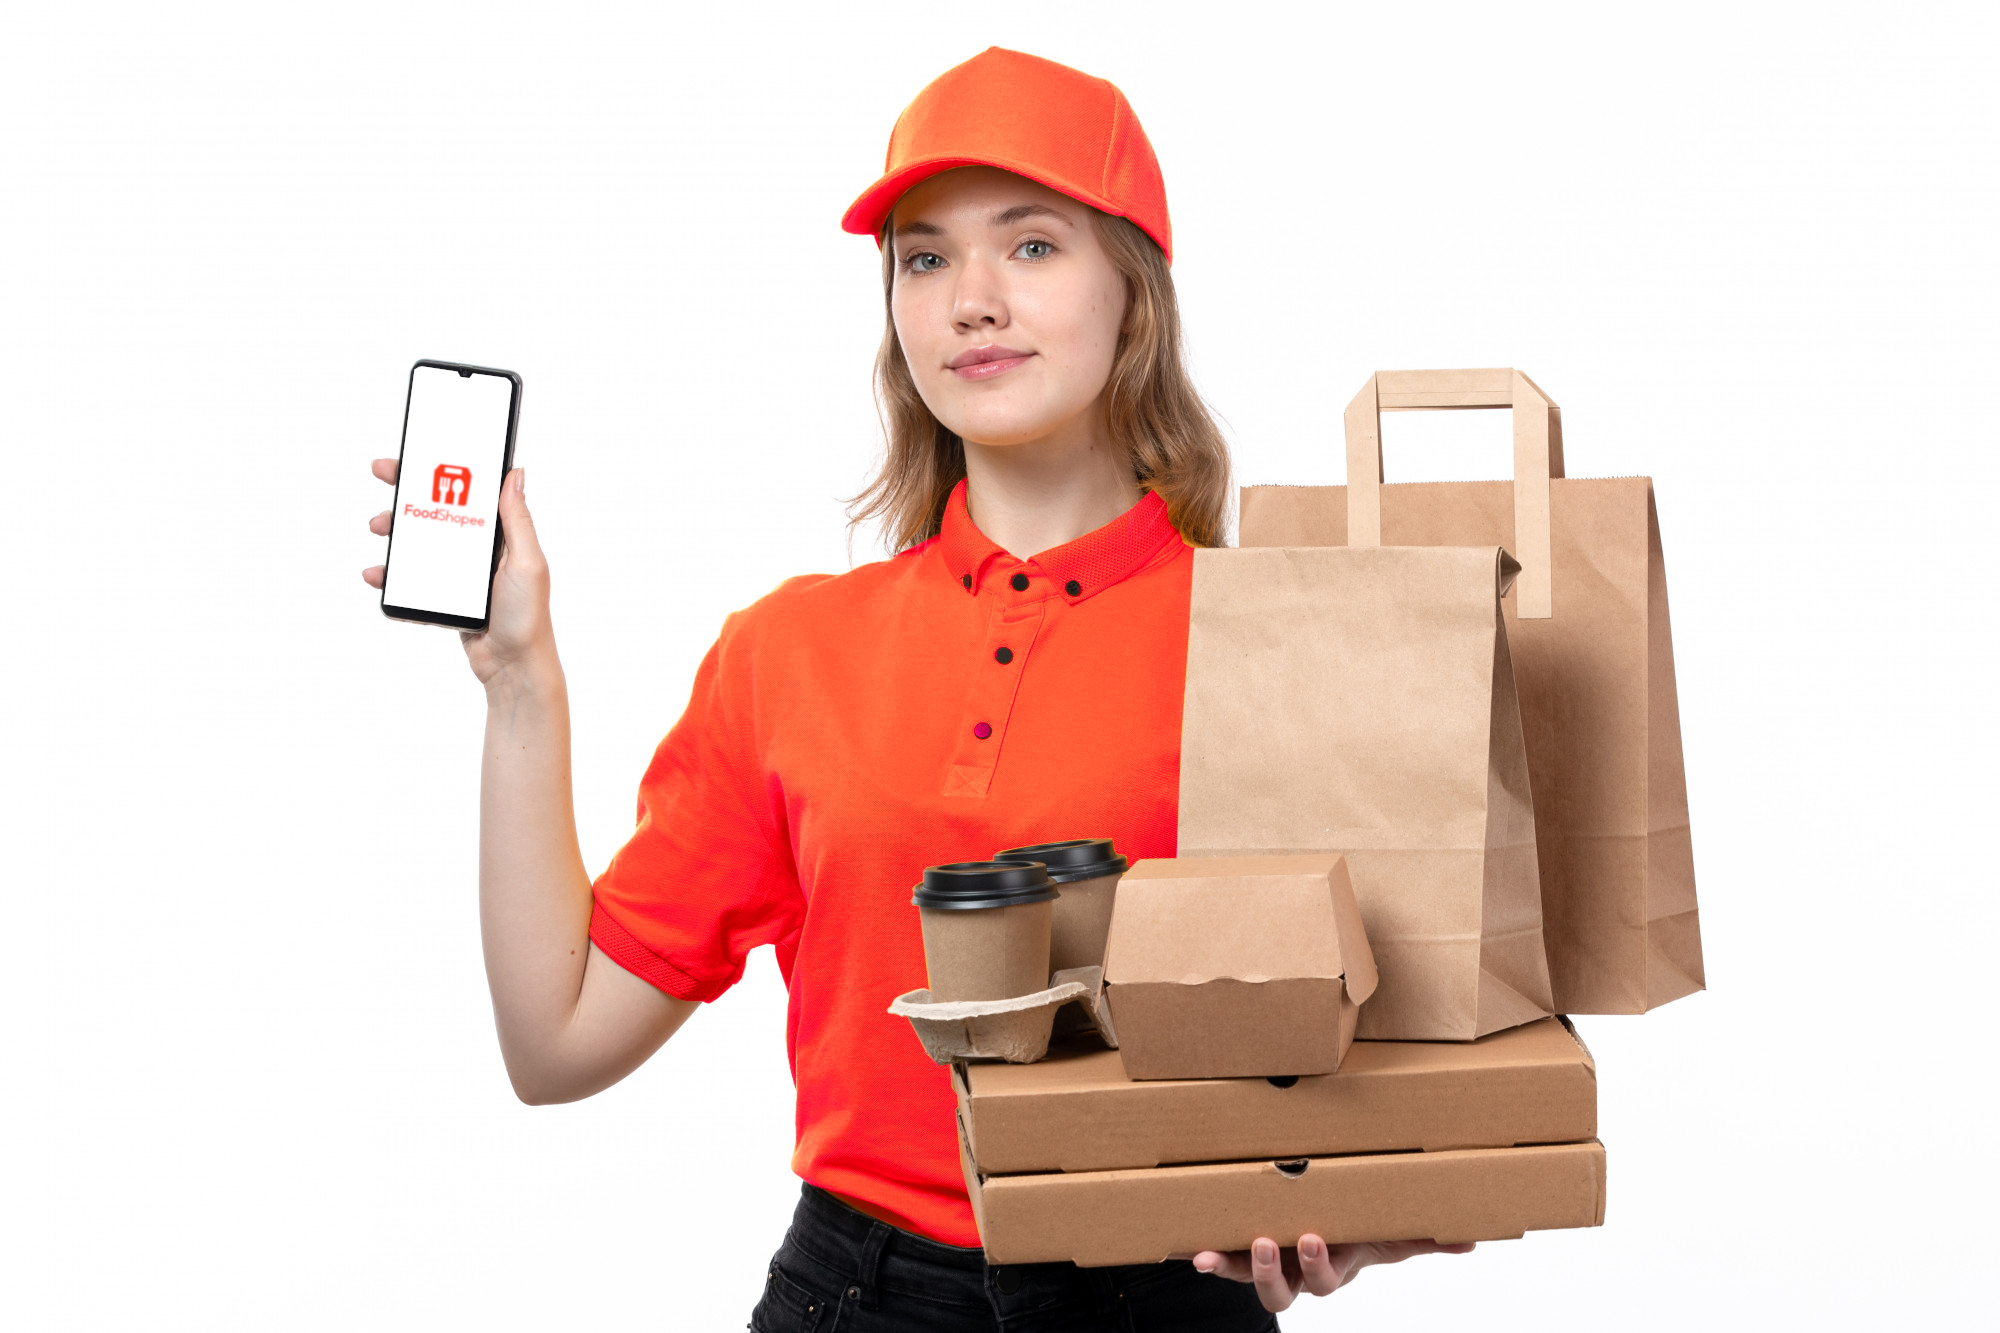
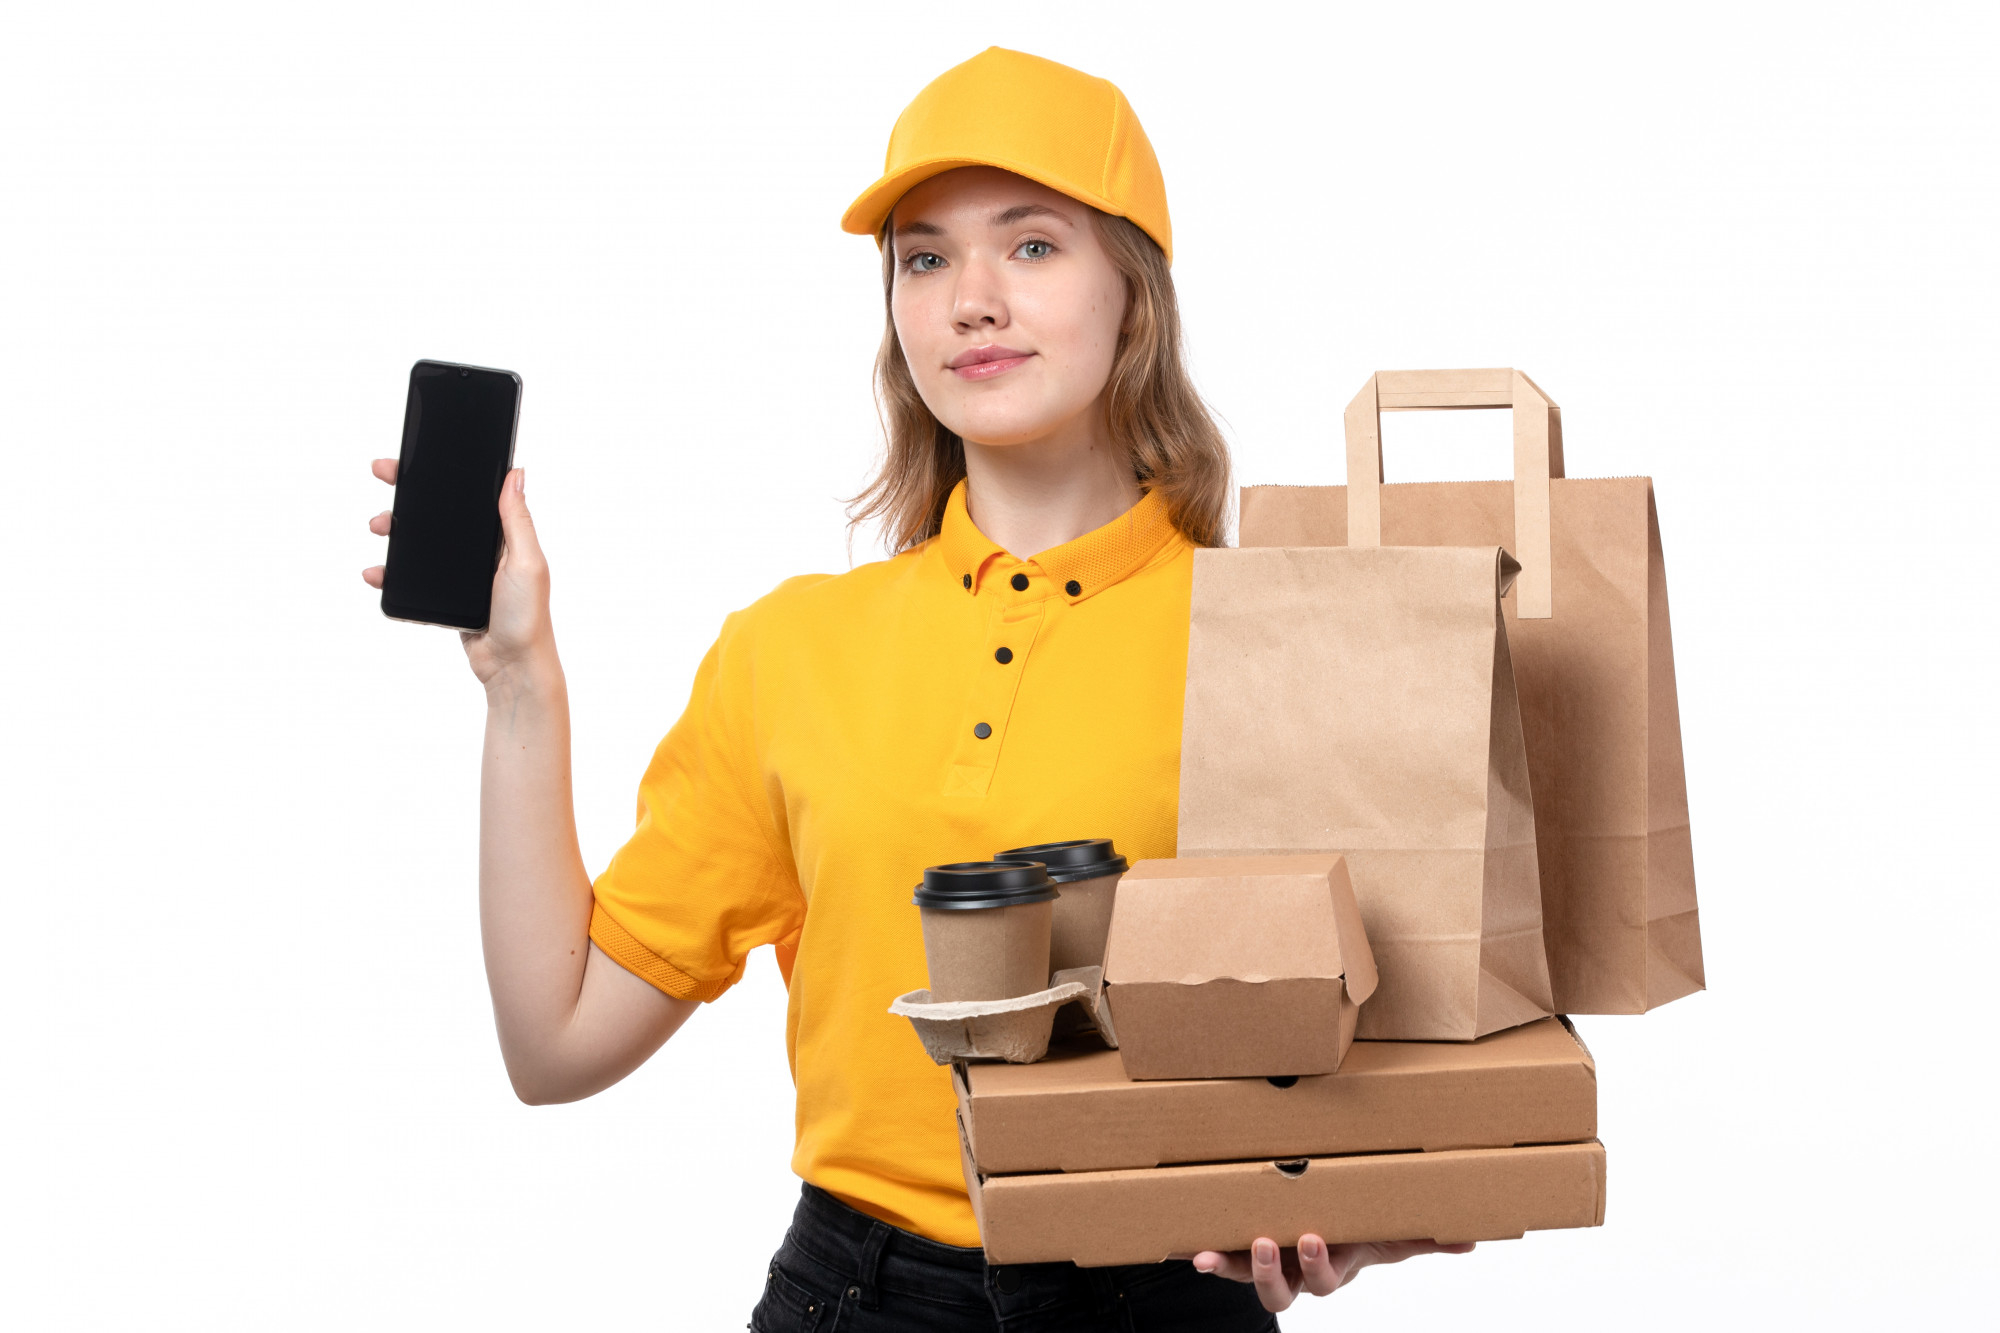
removendo o shopee dos nomes

Changed region(s): [[0.279, 0.3691, 0.62, 0.9535], [0.403, 0.0308, 0.589, 0.1845], [0.186, 0.2768, 0.279, 0.4614]]

diff --git a/Core/templates/about.html b/Core/templates/about.html
@@ -22,30 +22,30 @@
             <div class="container">
                 <div class="row justify-content-center">
                     <div class="col-md-8">
-                        <h1 class="display-4 text-center name_footer">A FoodShopee é um plataforma de Delivery Brasileira</h1>
+                        <h1 class="display-4 text-center name_footer">A Food é um plataforma de Delivery Brasileira</h1>
                         <article class="article" data-aos="fade-up"
                         data-aos-duration="1000"
                         data-aos-offset="0"
                         data-aos-delay="200">
-                            <p>A Foodshopee é uma plataforma inovadora de delivery, especialmente desenvolvida para logistas que desejam expandir seus negócios e alcançar um público mais amplo. Nossa plataforma oferece aos logistas a oportunidade de cadastrar e anunciar seus produtos de forma fácil e eficiente, permitindo que eles alcancem clientes em potencial que buscam uma experiencia no digital de compra.
+                            <p>A Food é uma plataforma inovadora de delivery, especialmente desenvolvida para logistas que desejam expandir seus negócios e alcançar um público mais amplo. Nossa plataforma oferece aos logistas a oportunidade de cadastrar e anunciar seus produtos de forma fácil e eficiente, permitindo que eles alcancem clientes em potencial que buscam uma experiencia no digital de compra.
                               <br>
                               <br>
-                              Através da Foodshopee, os logistas têm a oportunidade de criar um perfil personalizado, onde podem listar seus produtos com descrições detalhadas e imagens atraentes. Eles desfrutam de total controle sobre os produtos, categorias, bairros para entrega, cupons de desconto, preços e outras informações relevantes.
+                              Através da Food, os logistas têm a oportunidade de criar um perfil personalizado, onde podem listar seus produtos com descrições detalhadas e imagens atraentes. Eles desfrutam de total controle sobre os produtos, categorias, bairros para entrega, cupons de desconto, preços e outras informações relevantes.
                               <br>
                               <br>
-                              Nossa plataforma foi cuidadosamente projetada para simplificar o processo de venda online, fornecendo uma experiência intuitiva tanto para os logistas quanto para os clientes. Ao utilizar a Foodshopee, os logistas podem expandir sua presença no mercado digital, alcançando um público mais amplo e, consequentemente, aumentando suas vendas.
+                              Nossa plataforma foi cuidadosamente projetada para simplificar o processo de venda online, fornecendo uma experiência intuitiva tanto para os logistas quanto para os clientes. Ao utilizar a Food, os logistas podem expandir sua presença no mercado digital, alcançando um público mais amplo e, consequentemente, aumentando suas vendas.
                               <br>
                               <br>
-                              Os clientes que acessam a Foodshopee têm acesso a uma ampla seleção de lojas e produtos em um único lugar. Eles podem explorar diferentes categorias, pesquisar por produtos específicos e descobrir novidades. Os clientes podem entrar em contato diretamente com os logistas para fazer suas compras e combinar as opções de pagamento e retirada dos produtos.
+                              Os clientes que acessam a Food têm acesso a uma ampla seleção de lojas e produtos em um único lugar. Eles podem explorar diferentes categorias, pesquisar por produtos específicos e descobrir novidades. Os clientes podem entrar em contato diretamente com os logistas para fazer suas compras e combinar as opções de pagamento e retirada dos produtos.
                               <br>
                               <br>
-                              Acreditamos que a tecnologia desempenha um papel fundamental na evolução do comércio e, por isso, nossa plataforma oferece recursos avançados para facilitar a gestão do negócio e otimizar a experiência do cliente. Com a Foodshopee, os logistas podem se concentrar no que fazem de melhor - fornecer produtos de alta qualidade - enquanto nossa plataforma cuida do resto.
+                              Acreditamos que a tecnologia desempenha um papel fundamental na evolução do comércio e, por isso, nossa plataforma oferece recursos avançados para facilitar a gestão do negócio e otimizar a experiência do cliente. Com a Food, os logistas podem se concentrar no que fazem de melhor - fornecer produtos de alta qualidade - enquanto nossa plataforma cuida do resto.
                               <br>
                               <br>
-                              A Foodshopee é uma solução confiável e eficiente para logistas que desejam alcançar um público maior e expandir seus negócios no mundo do delivery. Nossa plataforma oferece suporte e recursos para auxiliar os logistas em todas as etapas, desde o cadastro dos produtos até a interação com os clientes.
+                              A Food é uma solução confiável e eficiente para logistas que desejam alcançar um público maior e expandir seus negócios no mundo do delivery. Nossa plataforma oferece suporte e recursos para auxiliar os logistas em todas as etapas, desde o cadastro dos produtos até a interação com os clientes.
                               <br>
                               <br>
-                              Junte-se à Foodshopee hoje mesmo e faça parte de uma comunidade crescente de logistas que estão aproveitando os benefícios de uma plataforma de delivery voltada para o crescimento e sucesso dos seus negócios.
+                              Junte-se à Food hoje mesmo e faça parte de uma comunidade crescente de logistas que estão aproveitando os benefícios de uma plataforma de delivery voltada para o crescimento e sucesso dos seus negócios.
                             </p>    
                         </article>
                         <div class="row">
@@ -56,7 +56,7 @@
                                   <p class="card-text text-center">
                                     Capacitar Logistas a Conquistar o Sucesso no Mundo do Delivery
 
-                                    Na Foodshopee, nosso propósito é claro e inspirador: capacitar logistas a conquistar o sucesso no mundo do delivery. Acreditamos que cada negócio tem o potencial de alcançar um público mais amplo e expandir sua presença no mercado digital. Com nossa plataforma de delivery inovadora, oferecemos as ferramentas e recursos necessários para que os logistas se destaquem, alcancem novos clientes e impulsionem suas vendas.
+                                    Na Food, nosso propósito é claro e inspirador: capacitar logistas a conquistar o sucesso no mundo do delivery. Acreditamos que cada negócio tem o potencial de alcançar um público mais amplo e expandir sua presença no mercado digital. Com nossa plataforma de delivery inovadora, oferecemos as ferramentas e recursos necessários para que os logistas se destaquem, alcancem novos clientes e impulsionem suas vendas.
                                   </p>
                                 </div>
                               </div>
@@ -67,7 +67,7 @@
                                   <h5 class="card-title text-center name_footer">Nossa Personalidade</h5>
                                   <p class="card-text text-center">
                                     Inovadora, Empoderadora e Focada no Sucesso
-Na Foodshopee, nossa personalidade é moldada por nossa abordagem inovadora, nosso compromisso em empoderar logistas e nossa busca incessante pelo sucesso. Somos uma plataforma de delivery que a inovação e a busca por soluções diferenciadas. Acreditamos que cada logista tem um potencial único e trabalhamos para oferecer as ferramentas e recursos necessários para que eles alcancem o sucesso no mundo do delivery.
+Na Food, nossa personalidade é moldada por nossa abordagem inovadora, nosso compromisso em empoderar logistas e nossa busca incessante pelo sucesso. Somos uma plataforma de delivery que a inovação e a busca por soluções diferenciadas. Acreditamos que cada logista tem um potencial único e trabalhamos para oferecer as ferramentas e recursos necessários para que eles alcancem o sucesso no mundo do delivery.
                                   </p>
                                 </div>
                               </div>
@@ -75,14 +75,14 @@ Na Foodshopee, nossa personalidade é moldada por nossa abordagem inovadora, nos
                           </div>
                           <br>
                           <div class="text-center"><span>
-                            Esses três pilares fundamentais da nossa personalidade refletem nossa paixão pelo delivery, nossa dedicação aos logistas e nossa busca incessante por oferecer uma plataforma inovadora e empoderadora. Na Foodshopee, estamos comprometidos em impulsionar o sucesso dos logistas, construir uma comunidade colaborativa e alcançar resultados excepcionais juntos.
+                            Esses três pilares fundamentais da nossa personalidade refletem nossa paixão pelo delivery, nossa dedicação aos logistas e nossa busca incessante por oferecer uma plataforma inovadora e empoderadora. Na Food, estamos comprometidos em impulsionar o sucesso dos logistas, construir uma comunidade colaborativa e alcançar resultados excepcionais juntos.
                           </span>
                           <div class="card-group">
                             <div class="card">
                               <div class="card-body">
                                 <h5 class="card-title name_footer">Inovadora</h5>
                                 <p class="card-text">
-                                  Na Foodshopee, valorizamos a inovação e a criatividade. Buscamos constantemente soluções diferenciadas e exploramos novas oportunidades para melhorar nossa plataforma. Estamos comprometidos em oferecer recursos avançados e tecnologia de ponta, proporcionando uma experiência única para logistas e clientes.
+                                  Na Food, valorizamos a inovação e a criatividade. Buscamos constantemente soluções diferenciadas e exploramos novas oportunidades para melhorar nossa plataforma. Estamos comprometidos em oferecer recursos avançados e tecnologia de ponta, proporcionando uma experiência única para logistas e clientes.
                                 </p>
                               </div>
                             </div>

diff --git a/templates/base.html b/templates/base.html
@@ -79,7 +79,7 @@ style="background-image:url({{ imagens.backgroud.url }});">
 <div class="block hero1 my-auto"
 style="background-image:url({% static 'img/uma-vista-frontal-food.png' %});">
 <div class="container-fluid text-center">
-	<h1 class="display-2 text-white" data-aos="fade-up" data-aos-duration="1000" data-aos-offset="0">FoodShopee</h1>
+	<h1 class="display-2 text-white" data-aos="fade-up" data-aos-duration="1000" data-aos-offset="0">Food</h1>
 	<p class="lead text-white" data-aos="fade-up" data-aos-duration="1000" data-aos-delay="600">Leve seu negócio para o próximo nível com nosso sistema de delivery integrado. Com nossa plataforma, você pode gerenciar suas entregas de forma eficiente e oferecer aos seus clientes a comodidade de pedir online. Experimente agora e veja seus negócios decolarem!</p>
 	<a href="{% url 'Core:index' %}" class="btn-text lead d-inline-block text-white border-top border-bottom mt-4 pt-1 pb-1"
 		data-aos="fade-up" data-aos-duration="1000" data-aos-delay="1200">Ver o Menu de Hoje</a>
@@ -186,7 +186,7 @@ style="background-image:url({% static 'img/uma-vista-frontal-food.png' %});">
             <p><i class="fas fa-home me-3"></i>Ribeirão das Neves, MG</p>
             <p>
               <i class="fas fa-envelope me-3"></i>
-              sac@foodshopee.com
+              sac@food.com
             </p>
             <p><i class="fas fa-phone me-3"></i> + 55 (31) 99383-9825</p>
           </div>
@@ -199,7 +199,7 @@ style="background-image:url({% static 'img/uma-vista-frontal-food.png' %});">
   
     <!-- Copyright -->
     <div class="text-center p-4" style="background-color: rgba(0, 0, 0, 0.05);">
-        <p>45.244.997/0001-63 &copy; Copyright 2023 &nbsp<sapn class="name_footer">FoodShopee</sapn>&nbsp Todos os direitos reservados</p>
+        <p>45.244.997/0001-63 &copy; Copyright 2023 &nbsp<sapn class="name_footer">Food</sapn>&nbsp Todos os direitos reservados</p>
     </div>
     <!-- Copyright -->
   </footer>

diff --git a/Core/templates/politicas.html b/Core/templates/politicas.html
@@ -23,7 +23,7 @@
 			<span>Atualizado: 30/05/2023</span>
 		</div>
             <br>
-	<h1 class="name_footer">[Políticas] Política de Privacidade | FoodShopee</h1>
+	<h1 class="name_footer">[Políticas] Política de Privacidade | Food</h1>
 
 	<p>Esta Política de Privacidade descreve como coletamos, usamos e divulgamos informações pessoais que possamos obter de você ou que você possa nos fornecer através do uso da nossa plataforma de delivery para logistas.</p>
 
@@ -54,7 +54,7 @@
 	<h2 class="name_footer">Entre em contato</h2>
 
 	<p>
-        Se tiver alguma dúvida ou preocupação sobre nossa Política de Privacidade, entre em contato conosco através do endereço de e-mail sac@foodshopee.com .
+        Se tiver alguma dúvida ou preocupação sobre nossa Política de Privacidade, entre em contato conosco através do endereço de e-mail sac@food.com .
     </p>
 
 </div>

diff --git a/Core/templates/termos.html b/Core/templates/termos.html
@@ -23,7 +23,7 @@
 		</div>
 	<h1 class="name_footer">Termos de Serviço</h1>
 
-	<p>Estes termos e condições ("Termos") regem o uso da plataforma de delivery oferecida por FoodShopee. Ao utilizar a Plataforma, você concorda com estes Termos. Se você não concorda com estes Termos, não use a Plataforma.  Em caso de dúvidas, entre em contato conosco através do nosso canal de suporte.</p>
+	<p>Estes termos e condições ("Termos") regem o uso da plataforma de delivery oferecida por Food. Ao utilizar a Plataforma, você concorda com estes Termos. Se você não concorda com estes Termos, não use a Plataforma.  Em caso de dúvidas, entre em contato conosco através do nosso canal de suporte.</p>
 
 	<h2 class="name_footer">1. Uso da Plataforma</h2>
 

diff --git a/Core/templates/precing.html b/Core/templates/precing.html
@@ -26,7 +26,7 @@
 data-aos-duration="1000"
 data-aos-offset="0"
 data-aos-delay="200">
-    <h2 class="text-center">Na FoodShopee, você paga apenas pela assinatura do plano que escolher. Não cobramos comissões sobre o faturamento ou os pedidos realizados em nossa plataforma, garantindo transparência e previsibilidade em suas despesas.
+    <h2 class="text-center">Na Food, você paga apenas pela assinatura do plano que escolher. Não cobramos comissões sobre o faturamento ou os pedidos realizados em nossa plataforma, garantindo transparência e previsibilidade em suas despesas.
     </h2>    
 </article>
 <br>

diff --git a/templates/admin/base_site.html b/templates/admin/base_site.html
@@ -3,7 +3,7 @@
 
 {% block branding %}
 <div class="admin-logo">
-    <img src="{% static 'img/logo.png' %}" alt="logo" height="100px" width="100%"> <h1>FoodShopee</h1>
+    <img src="{% static 'img/logo.png' %}" alt="logo" height="100px" width="100%"> <h1>Food</h1>
 </div>
 {%endblock%}
 

diff --git a/Core/templates/index.html b/Core/templates/index.html
@@ -4,7 +4,7 @@
 {% load static %}
 
 <title>{% block 'title' %}
-	FoodShopee
+	Food
 	{% endblock %}</title>
 
 	{% block 'head' %}
